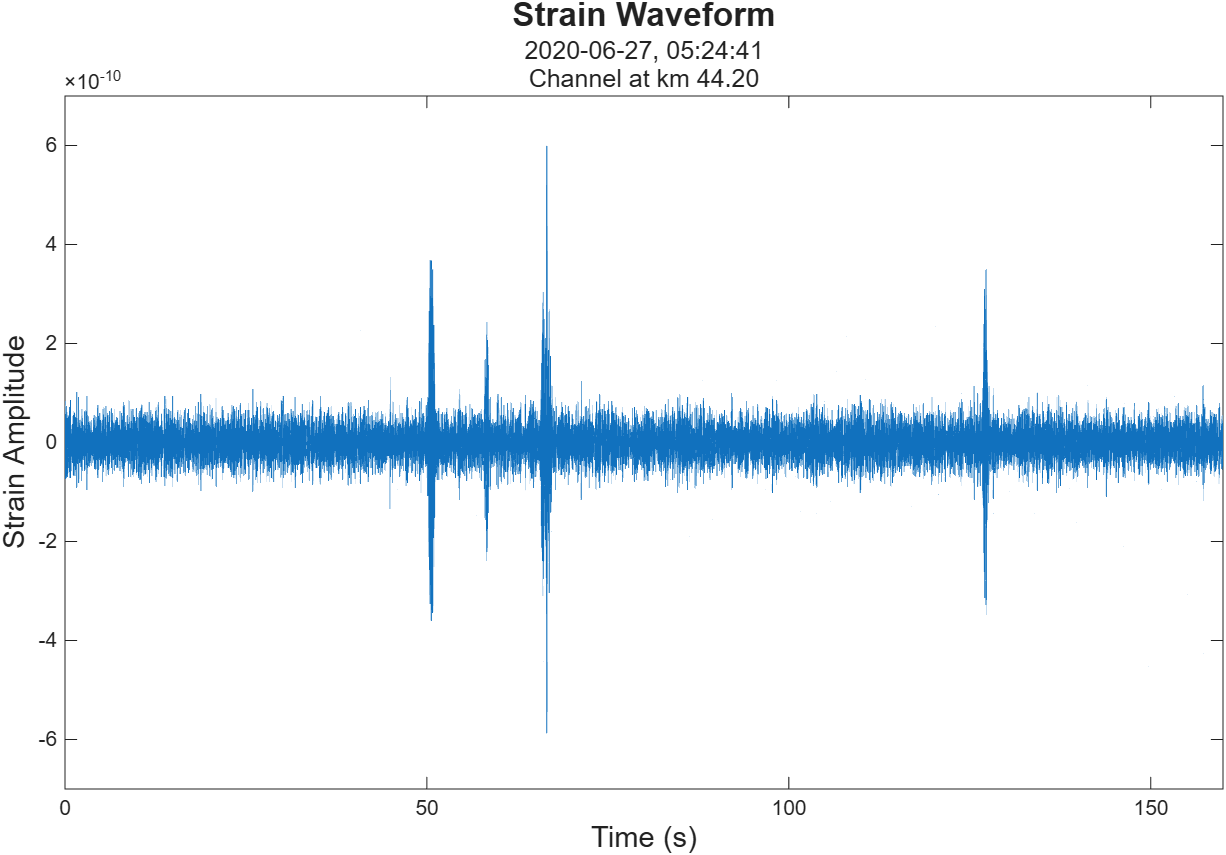
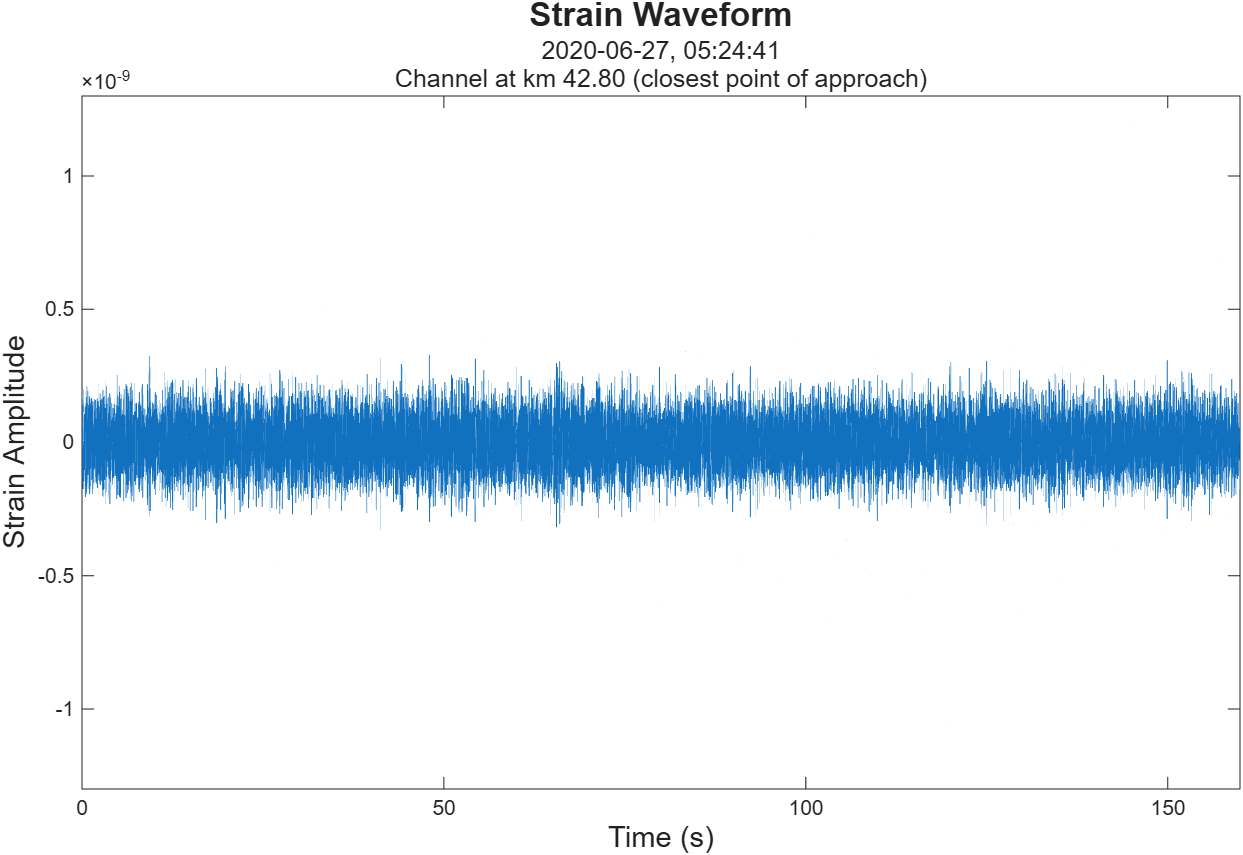
Updates to cross correlation (now takes shorter signal segments), time-space plot (now shows propagation speed), strain waveform (compares a channel to the CPA)

diff --git a/Bou_et_alia_2022.m b/Bou_et_alia_2022.m
@@ -77,14 +77,14 @@ time_start = time(1); time_end = time(end);
 distance_min = distance_km(1); distance_max = distance_km(end);
 strain_min_dB = -30; strain_max_dB = -5;
 
-c = 1500; % propagation speed
+c = 1.47; % propagation speed [km/s]
 
 time_space_plot(strain_dB, time, distance_km, ...
     time_start, time_end, distance_min, distance_max, strain_min_dB, strain_max_dB)
 
 hold on;
-y = (c .* (time-46.5));
-plot(time, y, "LineStyle","-", "Color", "w");
+y = ( c .* (time - 46.2) ) + 43.2;
+plot(time, y, 'w--', 'LineWidth', 0.7);
 hold off;
 
 subtitle(time_and_date, "FontSize", 12);
@@ -93,17 +93,25 @@ filename_export = fullfile('Bou22_article_plots/', 'time_space_plot_bou22_articl
 %exportgraphics(gcf, filename_export);
 
 %% strain waveform of a single channel
-channel_position_km = 44.2; % channel of interest
+channel_position_km = 42; % channel of interest
+CPA_position_km = 42.8; % closest point of apporach
 
 [~, channel_focus_idx] = min(abs(distance_km - channel_position_km));
 channel_focus = strain_fk_filtered(channel_focus_idx, :) .* 1e-9;
 
+[~, CPA_idx] = min(abs(distance_km - CPA_position_km));
+channel_CPA = strain_fk_filtered(CPA_idx, :) .* 1e-9;
+
 time_start = time(1); time_end = time(end); 
-amplitude_min = -0.7 * 1e-9; amplitude_max = 0.7 * 1e-9;
+amplitude_min = -1.3 * 1e-9; amplitude_max = 1.3 * 1e-9;
 
 strain_waveform(channel_focus, time, ...
     time_start, time_end, amplitude_min, amplitude_max)
 subtitle({time_and_date, sprintf("Channel at km %.2f", channel_position_km)}, "FontSize", 12);
+
+strain_waveform(channel_CPA, time, ...
+    time_start, time_end, amplitude_min, amplitude_max)
+subtitle({time_and_date, sprintf("Channel at km %.2f (closest point of approach)", CPA_position_km)}, "FontSize", 12);
 
 filename_export = fullfile('Bou22_article_plots/', 'strain_waveform_bou22_article_whale.png');
 exportgraphics(gcf, filename_export);
@@ -151,9 +159,9 @@ exportgraphics(gcf, filename_export);
 %% corss correlation statistics
 channel_position_km = 44.2; % reference channel distance
 offset_xcorr = 35; % maximum offset (m)
-max_lag = 0.05;  % maximum time lag (s)
+max_lag = 0.06;  % maximum time lag (s)
 
-time_corr_start = 40; time_corr_end = 75;
+time_corr_start = 47; time_corr_end = 50;
 
 strain_corr = strain_fk_filtered(:, time_corr_start:time_corr_end);
 

diff --git a/plots/correlation_statistics.m b/plots/correlation_statistics.m
@@ -23,7 +23,7 @@ function correlation_statistics(data, sampling_frequency, distance_m, ...
     
     % sets up subplots
     offset_step = 2; % calculates cross correlation every 2 channels
-    nb_subplots = round(offset_xcorr/(offset_step * channel_distance));
+    nb_subplots = 2 * round(offset_xcorr/(offset_step * channel_distance)) + 1;
     nb_columns = floor(sqrt(nb_subplots));
     nb_rows = ceil(nb_subplots / nb_columns);
 
